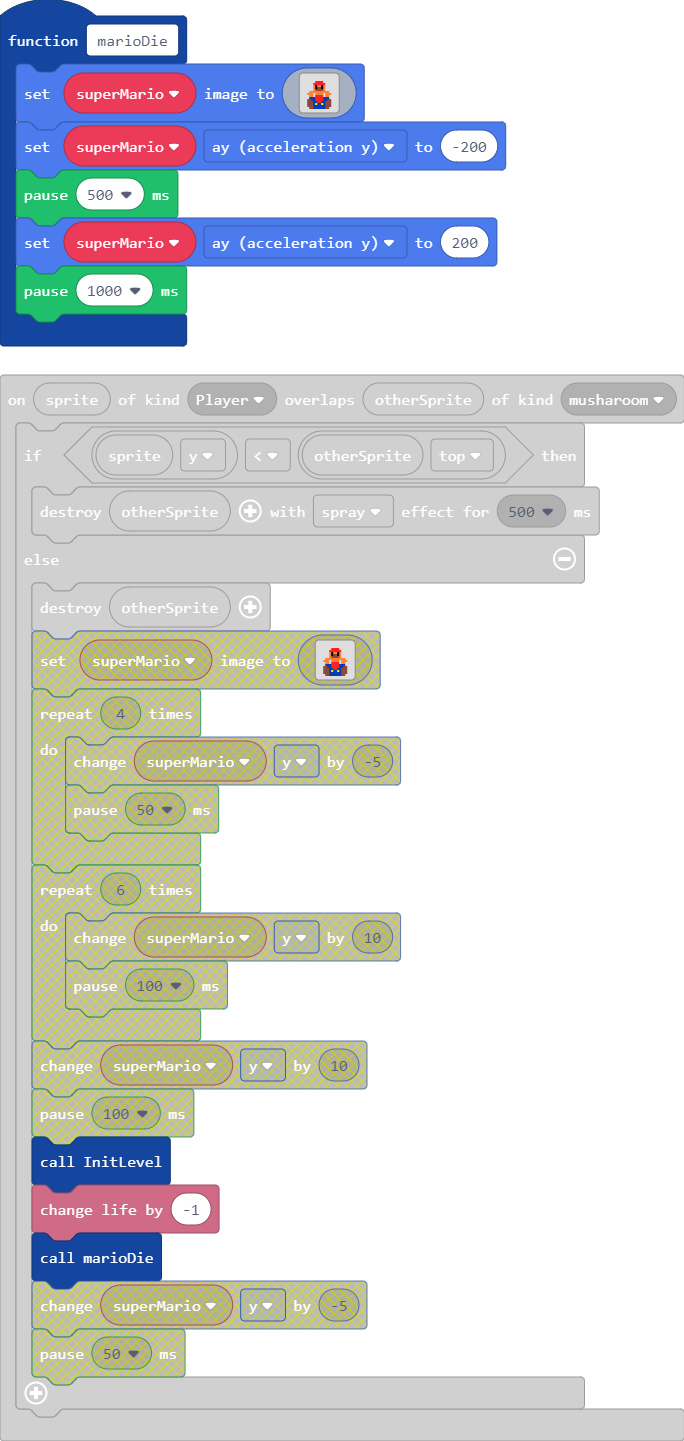
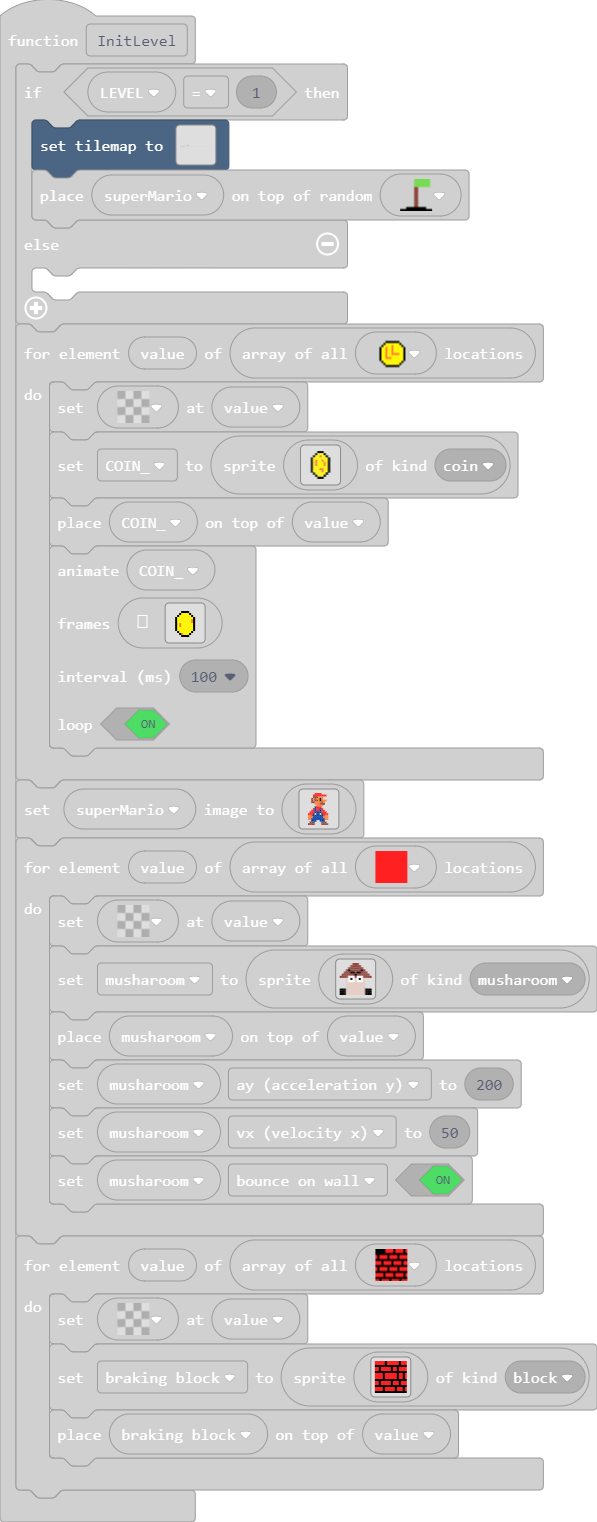
started piranya plant

diff --git a/main.ts b/main.ts
@@ -118,6 +118,25 @@ f f f f f f f f f f f f f f f f
 f f f f f f f f f f f f f f f f 
 2 2 f 2 2 2 2 f 2 2 2 2 f 2 2 2 
 `
+    //% blockIdentity=images._tile
+    export const tile6 = img`
+. . . . . . . . . . . . . . . . 
+. . . . . . . . . . . . . . . . 
+. . . . . . . . . . . . . . . . 
+f f f f f f f f f f f f f f f f 
+f 7 7 7 7 7 7 7 7 7 7 7 7 7 7 f 
+f 7 7 7 7 7 7 7 7 7 7 7 7 7 7 f 
+f 7 7 7 7 7 7 7 7 7 7 7 7 7 7 f 
+f f f f f f f f f f f f f f f f 
+. . . . f 7 7 7 d e f f . . . . 
+. . . . f 7 7 7 7 d e f . . . . 
+. . . . f 7 7 7 7 7 d f . . . . 
+. . . . f 7 7 7 7 7 7 f . . . . 
+. . . . f 7 7 7 7 7 7 f . . . . 
+. . . . f 7 7 7 7 7 7 f . . . . 
+. . . . f 7 7 7 7 7 7 f . . . . 
+. . . . f 7 7 7 7 7 7 f . . . . 
+`
 }
 function marioDie () {
     superMario.setImage(img`
@@ -175,7 +194,7 @@ sprites.onOverlap(SpriteKind.Player, SpriteKind.musharoom, function (sprite, oth
 function InitLevel () {
     if (LEVEL == 1) {
         tiles.setTilemap(tiles.createTilemap(
-            hex`640017000000000000000000000000000000000000000000000000000000000000000000000000000000000000000000000000000000000000000000000000000000000000000000000000000000000000000000000000000000000000000000000000000000000000000000000000000000000000000000000000000000000000000000000000000000000000000000000000000000000000000000000000000000000000000000000000000000000000000000000000000000000000000000000000000000000000000000000000000000000000000000000000000000000000000000000000000000000000000000000000000000000000000000000000000000000000000000000000000000000000000000000000000000000000000000000000000000000000000000000000000000000000000000000000000000000000000000000000000000000000000000000000000000000000000000000000000000000000000000000000000000000000000000000000000000000000000000000000000000000000000000000000000000000000000000000000000000000000000000000000000000000000000000000000000000000000000000000000000000000000000000000000000000000000000000000000000000000000000000000000000000000000000000000000000000000000000000000000000000000000000000000000000000000000000000000000000000000000000000000000000000000000000000000000000000000000000000000000000000000000000000000000000000000000000000000000000000000000000000000000000000000000000000000000000000000000000000000000000000000000000000000000000000000000000000000000000000000000000000000000000000000000000000000000000000000000000000000000000000000000000000000000000000000000000000000000000000000000000000000000000000000000000000000000000000000000000000000000000000000000000000000000000000000000000000000000000000000000000000000000000000000000000000000000000000000000000000000000000000000000000000000000000000000000000000000000000000000000000000000000000000000000000000000000000000000000000000000000000000000000000000000000000000000000000000000000000000000000000000000000000000000000000000000000000000000000000000000000000000000000000000000000000000000000000000000000000000000000000000000000000000000000000000000000000000000000000000000000000000000000000000000000000000000000000000000000000000000000000000000000000000000000000000000000000000000000000000000000000000000000000000000000000000000000000000000000000000000000000000000000000000000000000000000000000000000000000000000000000000000000000000000000000000000000000000020000000000000000000000000000000000000000000000000000000000000000000000000000000000000000000000000000000000000000000000000000000000000000000000000000000000000000000000000000000000000000000000000000000200000000000000000000000000000000000000000000000000000000000000000000000000000000000000000000000000000000000000000000000000000000000000000000000000000000000000000004000000000000000000000000000000000002000000000000000000000000000000000000000000000000000000000000000000000000000000000000000000000000000000000000000000000000000000000000000000000000000000000000000000000000000000000000000000000000000000060606060000000000000000000000000000000000000000000000000000000000000000000000000000000000000000000000000000000000000000000000000000000000000000000000000000000000000200040000000000000000000000000000000000000000000000000000000000000000000000000000000000000000000000000000000000000000000000000000000000000000000000000000000000000000000000000000000000000003000000000002020200040000020000050000020000000000000000000000000000000000000000000000000000000000000000000000000000000000000000000000000000000000000000000000000000000000000000000000000000000000000000010101010101010101010101010101010101010101010101010101010101010101010101010101010101010101010101010101010101010101010101010101010101010101010101010101010101010101010101010101010101010101010101010101010000000000000000000000000000000000000000000000000000000000000000000000000000000000000000000000000000000000000000000000000000000000000000000000000000000000000000000000000000000000000000000000000000000000000000000000000000000000000000000000000000000000000000000000000000000000000000000000000000000000000000000000000000000000000000000000000000000000000000000000000000000000000000000000000000000000000000000000000000000000000000000000000000000000000000000000000000000000000000000000000000000000000000000000000000000000000000000000000000000000000000000000000000000000000000000000000000000000000000000000000000000000000000000000000000000000000000000000000000000000000000000000000000000000000000000000000000000000000000000000000000000000000000000000000000000000000000000000000000000000000000000000000000000000000000000000000000000000000000000000000000000000000000000000000000000000000000000000000000000000000000000000000000000000000000000000000000000000000000000000000000000000000000000000000000000000000000`,
+            hex`640017000000000000000000000000000000000000000000000000000000000000000000000000000000000000000000000000000000000000000000000000000000000000000000000000000000000000000000000000000000000000000000000000000000000000000000000000000000000000000000000000000000000000000000000000000000000000000000000000000000000000000000000000000000000000000000000000000000000000000000000000000000000000000000000000000000000000000000000000000000000000000000000000000000000000000000000000000000000000000000000000000000000000000000000000000000000000000000000000000000000000000000000000000000000000000000000000000000000000000000000000000000000000000000000000000000000000000000000000000000000000000000000000000000000000000000000000000000000000000000000000000000000000000000000000000000000000000000000000000000000000000000000000000000000000000000000000000000000000000000000000000000000000000000000000000000000000000000000000000000000000000000000000000000000000000000000000000000000000000000000000000000000000000000000000000000000000000000000000000000000000000000000000000000000000000000000000000000000000000000000000000000000000000000000000000000000000000000000000000000000000000000000000000000000000000000000000000000000000000000000000000000000000000000000000000000000000000000000000000000000000000000000000000000000000000000000000000000000000000000000000000000000000000000000000000000000000000000000000000000000000000000000000000000000000000000000000000000000000000000000000000000000000000000000000000000000000000000000000000000000000000000000000000000000000000000000000000000000000000000000000000000000000000000000000000000000000000000000000000000000000000000000000000000000000000000000000000000000000000000000000000000000000000000000000000000000000000000000000000000000000000000000000000000000000000000000000000000000000000000000000000000000000000000000000000000000000000000000000000000000000000000000000000000000000000000000000000000000000000000000000000000000000000000000000000000000000000000000000000000000000000000000000000000000000000000000000000000000000000000000000000000000000000000000000000000000000000000000000000000000000000000000000000000000000000000000000000000000000000000000000000000000000000000000000000000000000000000000000000000000000000000000000000000000000000000020000000000000000000000000000000000000000000000000000000000000000000000000000000000000000000000000000000000000000000000000000000000000000000000000000000000000000000000000000000000000000000000000000000200000000000000000000000000000000000000000000000000000000000000000000000000000000000000000000000000000000000000000000000000000000000000000000000000000000000000000004000000000000000000000000000000000002000000000000000000000000000000000000000000000000000000000000000000000000000000000000000000000000000000000000000000000000000000000000000000000000000000000000000000000000000000000000000000000000000000060606060000000000000000000000000000000000000000000000000000000000000000000000000000000000000000000000000000000000000000000000000000000000000000000000000000000000000200040000000000000000000000000000000000000000000000000000000000000000000000000000000000000000000000000000000000000000000000000000000000000000000000000000000000000000000000000000000000000003000000000002020200040000020000050000020000000000000000000000000700000000000000000000000000000000000000000000000000000000000000000000000000000000000000000000000000000000000000000000000000000000000000010101010101010101010101010101010101010101010101010101010101010101010101010101010101010101010101010101010101010101010101010101010101010101010101010101010101010101010101010101010101010101010101010101010000000000000000000000000000000000000000000000000000000000000000000000000000000000000000000000000000000000000000000000000000000000000000000000000000000000000000000000000000000000000000000000000000000000000000000000000000000000000000000000000000000000000000000000000000000000000000000000000000000000000000000000000000000000000000000000000000000000000000000000000000000000000000000000000000000000000000000000000000000000000000000000000000000000000000000000000000000000000000000000000000000000000000000000000000000000000000000000000000000000000000000000000000000000000000000000000000000000000000000000000000000000000000000000000000000000000000000000000000000000000000000000000000000000000000000000000000000000000000000000000000000000000000000000000000000000000000000000000000000000000000000000000000000000000000000000000000000000000000000000000000000000000000000000000000000000000000000000000000000000000000000000000000000000000000000000000000000000000000000000000000000000000000000000000000000000000000`,
             img`
 . . . . . . . . . . . . . . . . . . . . . . . . . . . . . . . . . . . . . . . . . . . . . . . . . . . . . . . . . . . . . . . . . . . . . . . . . . . . . . . . . . . . . . . . . . . . . . . . . . . . 
 . . . . . . . . . . . . . . . . . . . . . . . . . . . . . . . . . . . . . . . . . . . . . . . . . . . . . . . . . . . . . . . . . . . . . . . . . . . . . . . . . . . . . . . . . . . . . . . . . . . . 
@@ -193,7 +212,7 @@ function InitLevel () {
 . . . . . . . . . . . . . . . . . . . . . . . . 2 . . . . . . . . . . . . . . . . . . . . . . . . . . . . . . . . . . . . . . . . . . . . . . . . . . . . . . . . . . . . . . . . . . . . . . . . . . . 
 . . . . . . . . . . . . . . . . . . . . . . . . . . . . . . . . . . . . . . . . . . . . . . . . . . . . . . . . . . . . . . . . . . . . . . . . . . . . . . . . . . . . . . . . . . . . . . . . . . . . 
 . . . . . . 2 . . . . . . . . . . . . . . . . . . . . . . . . . . . . . . . . . . . . . . . . . . . . . . . . . . . . . . . . . . . . . . . . . . . . . . . . . . . . . . . . . . . . . . . . . . . . . 
-. . . . . . 2 2 2 . . . . 2 . . . . . 2 . . . . . . . . . . . . . . . . . . . . . . . . . . . . . . . . . . . . . . . . . . . . . . . . . . . . . . . . . . . . . . . . . . . . . . . . . . . . . . . . 
+. . . . . . 2 2 2 . . . . 2 . . . . . 2 . . . . . . . . . . . . 2 . . . . . . . . . . . . . . . . . . . . . . . . . . . . . . . . . . . . . . . . . . . . . . . . . . . . . . . . . . . . . . . . . . . 
 2 2 2 2 2 2 2 2 2 2 2 2 2 2 2 2 2 2 2 2 2 2 2 2 2 2 2 2 2 2 2 2 2 2 2 2 2 2 2 2 2 2 2 2 2 2 2 2 2 2 2 2 2 2 2 2 2 2 2 2 2 2 2 2 2 2 2 2 2 2 2 2 2 2 2 2 2 2 2 2 2 2 2 2 2 2 2 2 2 2 2 2 2 2 2 2 2 2 2 2 
 . . . . . . . . . . . . . . . . . . . . . . . . . . . . . . . . . . . . . . . . . . . . . . . . . . . . . . . . . . . . . . . . . . . . . . . . . . . . . . . . . . . . . . . . . . . . . . . . . . . . 
 . . . . . . . . . . . . . . . . . . . . . . . . . . . . . . . . . . . . . . . . . . . . . . . . . . . . . . . . . . . . . . . . . . . . . . . . . . . . . . . . . . . . . . . . . . . . . . . . . . . . 
@@ -201,7 +220,7 @@ function InitLevel () {
 . . . . . . . . . . . . . . . . . . . . . . . . . . . . . . . . . . . . . . . . . . . . . . . . . . . . . . . . . . . . . . . . . . . . . . . . . . . . . . . . . . . . . . . . . . . . . . . . . . . . 
 . . . . . . . . . . . . . . . . . . . . . . . . . . . . . . . . . . . . . . . . . . . . . . . . . . . . . . . . . . . . . . . . . . . . . . . . . . . . . . . . . . . . . . . . . . . . . . . . . . . . 
 `,
-            [myTiles.tile0,sprites.castle.tilePath2,myTiles.tile1,myTiles.tile2,myTiles.tile3,myTiles.tile4,myTiles.tile5],
+            [myTiles.tile0,sprites.castle.tilePath2,myTiles.tile1,myTiles.tile2,myTiles.tile3,myTiles.tile4,myTiles.tile5,myTiles.tile6],
             TileScale.Sixteen
         ))
         tiles.placeOnRandomTile(superMario, myTiles.tile2)
